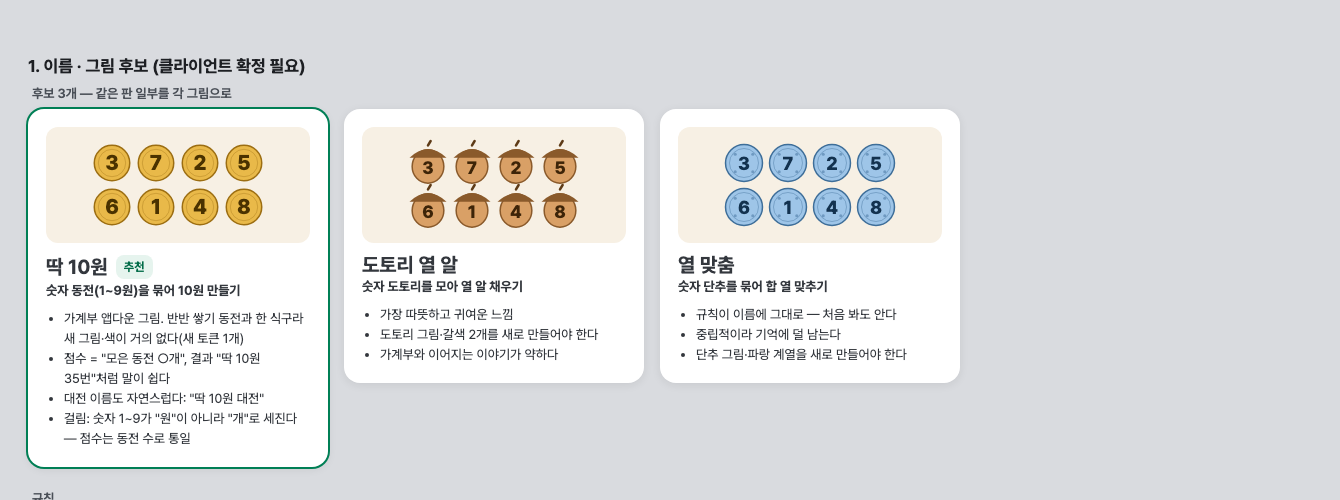
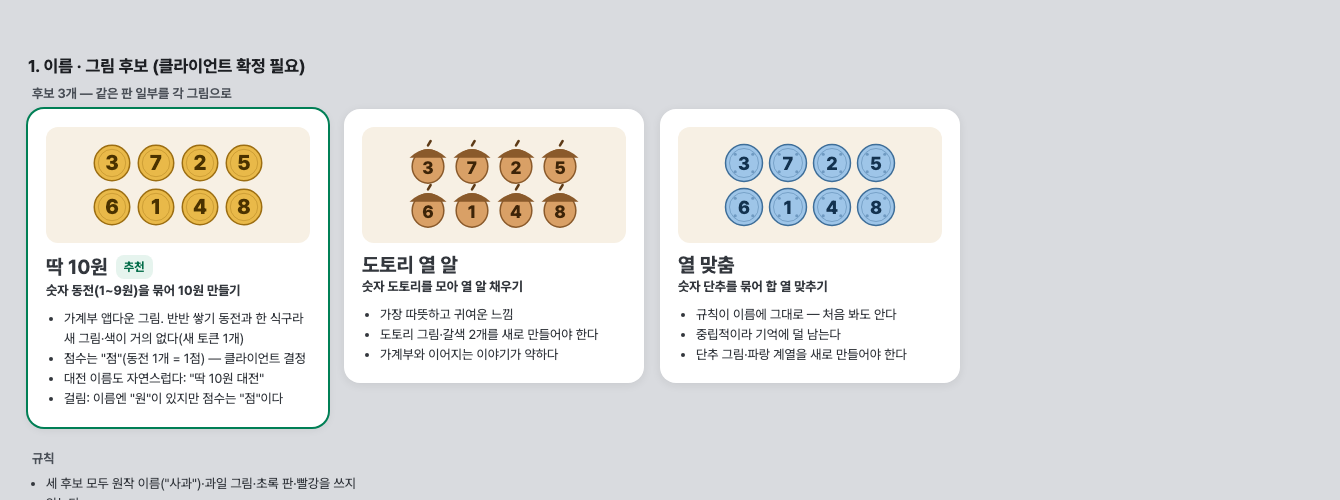
BANB-56 미니게임 점수 원 → 점: 반반 쌓기(5.32~5.39)·딱 10원 표기 정리

Changed region(s): [[0.0, 0.69, 0.2754, 1.0]]

diff --git a/docs/screens/play/ten.html b/docs/screens/play/ten.html
@@ -292,8 +292,8 @@ function land(o){
       ${o.finger ? `<div style="position:absolute;left:${l+w-16}px;top:${t+h-14}px;width:34px;height:34px;border-radius:99px;background:rgb(15 16 18 / .18);box-shadow:0 0 0 2px rgb(255 255 255 / .8);z-index:3"></div>` : ''}`; }
   const ratio = o.left / 120;
   const top = `<div class="gtop"><span class="ib" aria-label="나가기">${ic('chevron-left')}</span>
-    <div class="score"><small>모은 동전</small><b class="${o.flash?'flash':''}">${o.score}</b><span>개</span></div>
-    ${o.opp ? `<div class="opp ${o.opp.off?'off':''}">${av('j')}<span>준호</span><b>${o.opp.score}</b>${o.opp.off?ic('wifi-off'):''}</div>` : `<span class="best">최고 <b class="num">${o.best ?? 41}</b>개</span>`}
+    <div class="score"><small>점수</small><b class="${o.flash?'flash':''}">${o.score}</b><span>점</span></div>
+    ${o.opp ? `<div class="opp ${o.opp.off?'off':''}">${av('j')}<span>준호</span><b>${o.opp.score}</b>${o.opp.off?ic('wifi-off'):''}</div>` : `<span class="best">최고 <b class="num">${o.best ?? 41}</b>점</span>`}
     ${o.opp ? `<span class="ib ${o.cool?'cool':''}" aria-label="반응 보내기" style="margin-left:2px">${ic('smile-plus')}</span>` : ''}
     <div class="clock ${o.left<=10?'last':''}">${ic('timer')}${Math.floor(o.left/60)}:${String(o.left%60).padStart(2,'0')}</div></div>`;
   return `<div class="land">${top}
@@ -319,16 +319,16 @@ const fB = land({ g:Gb, score:35, left:83, sel:[3,2,5,3], finger:true });
 const fC = land({ g:Gc, score:40, flash:true, left:83, extra:(bx,by,s) => {
   const [cx, cy] = cellXY(bx,by,s,4,2.5);
   let fly = ''; [[0.25,0.55],[0.5,0.35],[0.75,0.15]].forEach(([t,op],i) => { const x = cx + (70 - cx)*t, y = cy + (24 - cy)*t - 20*Math.sin(Math.PI*t); fly += `<svg style="position:absolute;left:${x-12}px;top:${y-12}px;z-index:3" width="24" height="24"><circle cx="12" cy="12" r="10" fill="var(--color-piece-coin)" stroke="var(--color-piece-coin-edge)" stroke-width="1.5" opacity="${op+0.3}"/></svg>`; });
-  return `${fly}<div class="plusn" style="left:${cx-22}px;top:${cy-14}px">+5</div><div class="gpill" style="top:${by+12}px">${ic('sparkles')}동전 5개로 열 만들었어요!</div>`; } });
+  return `${fly}<div class="plusn" style="left:${cx-22}px;top:${cy-14}px">+5점</div><div class="gpill" style="top:${by+12}px">${ic('sparkles')}동전 5개로 열 만들었어요!</div>`; } });
 const fD = land({ g:Glate, score:52, left:10, best:41, extra:(bx,by) => `<div class="gpill" style="top:${by+12}px">${ic('timer')}남은 시간 10초예요</div>` });
 
 /* 1인 결과 */
 const soloRes = (newBest) => land({ g:Glate, score: newBest?52:38, best: newBest?41:52, left:0, dim:.5, extra:() => `<div class="cscrim"></div>
   <div class="lcard" style="width:440px"><div style="display:flex;gap:14px;align-items:center">
     <span class="circ56 ${newBest?'p':''}">${ic(newBest?'trophy':'coins')}</span>
-    <div style="flex:1"><h3>${newBest?'새 최고 기록이에요!':'끝났어요'}</h3><p>${newBest?'지난 최고 41개보다 11개 더 모았어요':'내 최고 기록은 <b class="num" style="color:var(--color-text)">52개</b>예요'}</p></div>
-    <div class="bigsc">${newBest?52:38}<small>개</small></div></div>
-    <div class="rec" style="margin-top:16px">${av('j','', 'width:24px;height:24px;font-size:11px')}<span>준호님 최고 기록 <b class="num">47개</b>${newBest?' — 내가 앞섰어요':''}</span></div>
+    <div style="flex:1"><h3>${newBest?'새 최고 기록이에요!':'끝났어요'}</h3><p>${newBest?'지난 최고 41점보다 11점 더 얻었어요':'내 최고 기록은 <b class="num" style="color:var(--color-text)">52점</b>예요'}</p></div>
+    <div class="bigsc">${newBest?52:38}<small>점</small></div></div>
+    <div class="rec" style="margin-top:16px">${av('j','', 'width:24px;height:24px;font-size:11px')}<span>준호님 최고 기록 <b class="num">47점</b>${newBest?' — 내가 앞섰어요':''}</span></div>
     <div class="btns" style="margin-top:16px"><div class="btn2">나가기</div><div class="btn1" style="flex:1.4">${ic('rotate-ccw')}한 판 더</div></div></div>` });
 
 /* 대전 */
@@ -338,7 +338,7 @@ const vOff = land({ g:Glate, score:47, left:10, opp:{score:44, off:true}, extra:
 const vWait = land({ g:Glate, score:47, left:0, opp:{score:44}, dim:.5, extra:() => `<div class="cscrim"></div><div class="lcard" style="width:360px;text-align:center"><div style="color:var(--color-primary);margin-bottom:8px">${ic('loader-circle','width:32px;height:32px')}</div><h3>점수를 맞춰 보는 중이에요</h3><p>준호님 기록이 오면 바로 알려 드릴게요</p></div>` });
 const vRes = (win) => land({ g:Glate, score: win?35:29, left:0, opp:{score:32}, dim:.5, extra:() => `<div class="cscrim"></div>
   <div class="lcard" style="width:580px;padding:18px 20px"><div style="display:flex;gap:20px">
-    <div style="flex:1"><div style="display:flex;gap:12px;align-items:center"><span class="circ56 ${win?'p':''}">${ic(win?'trophy':'smile')}</span><div><h3>${win?'이겼어요!':'아쉽게 졌어요'}</h3><p>${win?'준호님 32개, 나 35개':'준호님 32개, 나 29개'}</p></div></div>
+    <div style="flex:1"><div style="display:flex;gap:12px;align-items:center"><span class="circ56 ${win?'p':''}">${ic(win?'trophy':'smile')}</span><div><h3>${win?'이겼어요!':'아쉽게 졌어요'}</h3><p>${win?'준호님 32점, 나 35점':'준호님 32점, 나 29점'}</p></div></div>
       <div class="vsrow"><div class="${win?'win':''}"><small>${av('m')}나</small><b>${win?35:29}</b></div><div class="${win?'':'win'}"><small>${av('j')}준호</small><b>32</b></div></div></div>
     <div style="flex:1;display:flex;flex-direction:column">
       <div class="betbig" style="margin-top:0;text-align:center"><small>${ic('ticket')}진 사람이 설거지</small><b>${win?'준호님 당첨이에요!':'이번엔 내가 당첨이에요'}</b></div>
@@ -353,16 +353,16 @@ const menu = `<div class="phone"><div class="sh"><span class="ib">${ic('chevron-
     ${row('receipt','반반 쌓기 대전','줄을 지워 영수증을 보내요')}
     ${row('hand-coins','딱 10원 대전','같은 판으로 2분 동안 겨뤄요', true)}
     <p class="sect" style="padding-top:8px">혼자서</p>
-    ${row('piggy-bank','반반 쌓기','내 최고 <b style="display:inline;font-size:13px" class="num">28,000원</b>')}
-    ${row('coins','딱 10원','내 최고 <b style="display:inline;font-size:13px" class="num">41개</b>', true)}</div>
+    ${row('piggy-bank','반반 쌓기','내 최고 <b style="display:inline;font-size:13px" class="num">280점</b>')}
+    ${row('coins','딱 10원','내 최고 <b style="display:inline;font-size:13px" class="num">41점</b>', true)}</div>
   <div class="card" style="padding:4px 0"><div class="srow">${ic('vibrate')}<div style="flex:1"><div>진동</div><div style="font-size:13px;color:var(--color-text-sub)">줄을 지우거나 열을 만들 때 짧게 울려요</div></div><span class="sw"></span></div></div>
 </div></div></div>`;
 const mini = (() => { const g = [[3,0,5,2,6],[7,4,1,9,1],[2,0,8,3,5]], s = 40; let c=''; g.forEach((r,y)=>r.forEach((n,x)=>{ const ls = x>=1&&x<=2&&y>=0&&y<=1; c += coin(x*s+s/2, y*s+s/2, s, n, {lift:ls}); }));
   return `<div style="position:relative;width:200px;height:120px;margin:0 auto"><svg width="200" height="120" style="background:var(--color-stack-board);border-radius:12px">${c}</svg><div class="sel ten" style="left:${s-3}px;top:-3px;width:${2*s+6}px;height:${2*s+6}px"></div><div class="sum ten" style="left:${3*s-10}px;top:-16px;height:24px;font-size:13px">10${ic('check','width:14px;height:14px;stroke-width:3')}</div></div>`; })();
 const start = `<div class="phone"><div class="sh"><span class="ib">${ic('chevron-left')}</span><b>딱 10원</b></div><div class="scroll" style="bottom:80px"><div class="stack" style="padding-top:12px">
   <div class="card" style="text-align:center;padding-top:24px">${mini}<div class="t18" style="margin-top:16px">숫자 동전을 네모로 묶어<br>딱 10원을 만들어요</div></div>
-  <div class="card"><div class="k">내 최고 기록</div><div class="big num">41<span style="font-size:18px;font-weight:600;color:var(--color-text-sub);margin-left:2px">개</span></div>
-    <div class="rec" style="justify-content:flex-start;padding:0 12px;margin-top:12px">${av('j','', 'width:24px;height:24px;font-size:11px')}<span style="font-weight:500">준호님 최고 기록 <b class="num">47개</b>예요</span></div></div>
+  <div class="card"><div class="k">내 최고 기록</div><div class="big num">41<span style="font-size:18px;font-weight:600;color:var(--color-text-sub);margin-left:2px">점</span></div>
+    <div class="rec" style="justify-content:flex-start;padding:0 12px;margin-top:12px">${av('j','', 'width:24px;height:24px;font-size:11px')}<span style="font-weight:500">준호님 최고 기록 <b class="num">47점</b>예요</span></div></div>
   <div class="card"><div class="k">이렇게 해요</div><div class="howto">
     <div><span class="c">${ic('square-dashed-mouse-pointer')}</span>손가락으로 끌어 네모를 그려요</div>
     <div><span class="c">${ic('equal')}</span>네모 안 숫자 합이 10이면 동전이 모여요</div>
@@ -376,7 +376,7 @@ const rotBefore = `<div class="phone"><div class="sh"><span class="ib">${ic('che
 const rotDuring = `<div class="phone"><div class="sh"><span class="ib">${ic('chevron-left')}</span><b>딱 10원</b></div><div class="rot">
   <div class="rotart"><span class="ph1"></span><span class="ph2"></span>${ic('rotate-cw')}</div>
   <h3>가로로 돌려 주세요</h3><p>게임은 멈추지 않아요.<br>시간이 계속 흐르고 있어요</p>
-  <div class="paused"><div><small>남은 시간</small><b class="t">1:12</b></div><div><small>모은 동전</small><b>35개</b></div></div></div></div>`;
+  <div class="paused"><div><small>남은 시간</small><b class="t">1:12</b></div><div><small>점수</small><b>35점</b></div></div></div></div>`;
 
 /* ── 이름 후보 ── */
 const acorn = (cx, cy, s, n) => `<g><ellipse cx="${cx}" cy="${cy+s*0.08}" rx="${s*0.36}" ry="${s*0.38}" fill="#D9A066" stroke="#8A5A2B" stroke-width="1.5"/><path d="M${cx-s*0.42} ${cy-s*0.12} Q${cx} ${cy-s*0.5} ${cx+s*0.42} ${cy-s*0.12} Z" fill="#8A5A2B"/><line x1="${cx}" y1="${cy-s*0.4}" x2="${cx+s*0.06}" y2="${cy-s*0.5}" stroke="#5E3B17" stroke-width="2.5" stroke-linecap="round"/><text x="${cx}" y="${cy+s*0.26}" text-anchor="middle" font-size="${s*0.4}" font-weight="800" fill="#3D2408" font-family="Pretendard Variable">${n}</text></g>`;
@@ -384,7 +384,7 @@ const button = (cx, cy, s, n) => `<g><circle cx="${cx}" cy="${cy}" r="${s*0.42}"
 const art = f => { const s = 44, ns = [[3,7,2,5],[6,1,4,8]]; let c=''; ns.forEach((r,y)=>r.forEach((n,x)=>{ c += f(x*s+s/2+4, y*s+s/2+4, s, n); })); return `<svg width="${4*s+8}" height="${2*s+8}">${c}</svg>`; };
 const names = `<div class="row" style="gap:16px">
   <div class="ncard pick"><div class="art">${art((x,y,s,n)=>coin(x,y,s,n))}</div><h3>딱 10원 <em>추천</em></h3><b>숫자 동전(1~9원)을 묶어 10원 만들기</b>
-    <ul><li>가계부 앱다운 그림. 반반 쌓기 동전과 한 식구라 새 그림·색이 거의 없다(새 토큰 1개)</li><li>점수 = "모은 동전 ○개", 결과 "딱 10원 35번"처럼 말이 쉽다</li><li>대전 이름도 자연스럽다: "딱 10원 대전"</li><li>걸림: 숫자 1~9가 "원"이 아니라 "개"로 세진다 — 점수는 동전 수로 통일</li></ul></div>
+    <ul><li>가계부 앱다운 그림. 반반 쌓기 동전과 한 식구라 새 그림·색이 거의 없다(새 토큰 1개)</li><li>점수는 "점"(동전 1개 = 1점) — 클라이언트 결정</li><li>대전 이름도 자연스럽다: "딱 10원 대전"</li><li>걸림: 이름엔 "원"이 있지만 점수는 "점"이다</li></ul></div>
   <div class="ncard"><div class="art">${art(acorn)}</div><h3>도토리 열 알</h3><b>숫자 도토리를 모아 열 알 채우기</b>
     <ul><li>가장 따뜻하고 귀여운 느낌</li><li>도토리 그림·갈색 2개를 새로 만들어야 한다</li><li>가계부와 이어지는 이야기가 약하다</li></ul></div>
   <div class="ncard"><div class="art">${art(button)}</div><h3>열 맞춤</h3><b>숫자 단추를 묶어 합 열 맞추기</b>
@@ -392,11 +392,11 @@ const names = `<div class="row" style="gap:16px">
 
 const SCREENS = [
   ['names','1. 이름 · 그림 후보 (클라이언트 확정 필요)', [[names,'후보 3개 — 같은 판 일부를 각 그림으로']], ['세 후보 모두 원작 이름("사과")·과일 그림·초록 판·빨강을 쓰지 않는다', '<b>추천: 딱 10원</b> — 가계부 앱 안의 게임이라 "돈"으로 이야기가 이어지고, 반반 쌓기 동전 그림·색을 그대로 써서 새 토큰이 1개(숫자 글자색)뿐이다', '나머지 시안은 모두 "딱 10원"으로 그렸다. 다른 후보로 정해지면 그림(칸 1개)과 글자만 바꾼다 — 배치·크기·동작은 같다']],
-  ['menu','2. 게임 고르기 · 시작 (세로)', [[menu,'미니게임 화면 — 행 2개 추가'],[start,'시작 화면'],[rotBefore,'시작하기 → 세로면 "가로로 돌려 주세요"']], ['미니게임 화면: "혼자서"에 <b>딱 10원</b>(`Coins`, 보조 "내 최고 41개", 없으면 "합이 10이 되게 동전을 묶어요"), "둘이 같이"에 <b>딱 10원 대전</b>(`HandCoins`, 보조 = 전적, 없으면 "같은 판으로 2분 동안 겨뤄요")', '대전 행 → 상대 고르기·내기·대기실은 반반 쌓기 대전(5.36) 그대로', '시작 화면은 세로: 그림 카드(합 10 네모 예시) → 기록 카드 → 이렇게 해요 3줄 → 시작하기', '시작하기를 눌렀는데 세로면 회전 안내 화면. 가로가 되면 3초 세기 후 시작. 이미 가로면 바로 3초 세기']],
+  ['menu','2. 게임 고르기 · 시작 (세로)', [[menu,'미니게임 화면 — 행 2개 추가'],[start,'시작 화면'],[rotBefore,'시작하기 → 세로면 "가로로 돌려 주세요"']], ['미니게임 화면: "혼자서"에 <b>딱 10원</b>(`Coins`, 보조 "내 최고 41점", 없으면 "합이 10이 되게 동전을 묶어요"), "둘이 같이"에 <b>딱 10원 대전</b>(`HandCoins`, 보조 = 전적, 없으면 "같은 판으로 2분 동안 겨뤄요")', '대전 행 → 상대 고르기·내기·대기실은 반반 쌓기 대전(5.36) 그대로', '시작 화면은 세로: 그림 카드(합 10 네모 예시) → 기록 카드 → 이렇게 해요 3줄 → 시작하기', '시작하기를 눌렀는데 세로면 회전 안내 화면. 가로가 되면 3초 세기 후 시작. 이미 가로면 바로 3초 세기']],
   ['rotate','3. 가로로 돌려 주세요 (세로일 때)', [[rotBefore,'시작 전'],[rotDuring,'게임 중 세로로 돌림']], ['방향 고정이 안 되는 PWA·iOS Safari 대비. 세로가 되면 판 대신 이 화면', '게임 중: <b>멈추지 않는다</b>(명세 — 시간은 흐름). 남은 시간·모은 동전을 보여 줘 급한 걸 알게. 남은 시간 숫자는 매초 바뀜', '버튼 없이 돌리기만 하면 바로 판으로 돌아간다. 시작 전 화면에만 "나가기"', '그림: 연한 세로 폰 → 진한 가로 폰 + `RotateCw`(아이콘 세트 Lucide 그대로, 새 그림 아님)']],
-  ['play','4. 플레이 (가로 640×360)', [[fA,'끄는 중 — 합 7 (아무 일 없음)'],[fB,'합 10 — 네모가 진해지고 "10 ✓"'],[fC,'손을 뗌 → 터짐 + "+5" + 점수 깜빡'],[fD,'남은 10초']], ['정보 배치는 익숙하게: <b>점수 왼쪽 위, 남은 시간 오른쪽 위 + 판 오른쪽 세로 막대</b>(위에서 아래로 줄어듦). 판은 가운데 크게', '칸 s = floor(min((폭 − 72) / 15, (높이 − 64) / 8)), 30~48. 640×360 → 37(판 555×296), 667×375 → 38, 932×430 → 45. 좌우 노치는 safe-area만큼 더 띄운다', '네모: 손가락이 처음 닿은 칸 ~ 지금 칸까지(칸 단위로 딱 맞춤). 2px `primary` + 8% 바탕. 네모 오른쪽 위 알약에 <b>합</b>을 늘 보여 준다', '합 = 10: 테두리 3px + 16% 바탕, 알약이 `primary` "10 ✓", 안의 동전 테두리 `primary` + 살짝 커짐(1.08). 진동 켬이면 10이 되는 순간 짧게(15ms)', '손을 떼면 합 10: 동전이 0.15초 커졌다 점수 쪽으로 날아감(0.4초) → 자리에 "+5" 0.6초 → 점수 숫자 바탕 0.3초 깜빡. 빈칸은 다시 채우지 않음(작은 점만)', '첫 번째 터짐과 4개 이상 한 번에는 알약 "열 만들었어요!" / "동전 5개로 열 만들었어요!" 1.2초. 나머지는 "+N"만(시끄럽지 않게)', '합이 10이 아니면: 네모만 사라짐(벌점·흔들림 없음)', '남은 10초: 시간 숫자 `primary-strong` + 알약 "남은 시간 10초예요" 1.2초 1번. 소리 없음(효과음 자리도 안 만듦)', '‹ = 나가기 확인 창 "그만할까요? 이번 판 기록은 남지 않아요"(1인) — 창이 떠도 시간은 흐름']],
-  ['solo','5. 1인 결과', [[soloRes(true),'새 최고 기록'],[soloRes(false),'보통']], ['판을 흐리게 두고 가운데 카드(가로라 바텀시트 대신). 왼쪽 아이콘·제목, 오른쪽 큰 점수 40/800', '최고 기록 = 반반 쌓기 기록 저장 재사용(가계부 × 멤버 최고 1개). 멤버 비교 줄은 반반 쌓기 5.34 규칙', '한 판 더 = 새 시드로 바로 3초 세기. 나가기 → 미니게임 화면(세로)', '첫 판(기록 없음) → 제목 "첫 기록이에요!", 0개 → "다음엔 하나 만들어 봐요"']],
-  ['versus','6. 대전', [[vCount,'3초 세기 — 같은 판'],[vPlay,'플레이 — 상대 점수 작게 + 받은 반응'],[vOff,'상대 끊김 · 남은 10초'],[vWait,'끝 — 점수 맞춰 보는 중'],[vRes(true),'결과 — 이김 + 내기'],[vRes(false),'결과 — 짐']], ['둘 다 들어오면 같은 시드 판을 흐리게 보여 주고 3·2·1(마감 시각은 서버 기준). 알약 "같은 판으로 동시에 시작해요"', '상대 점수: 내 점수 옆 회색 알약 [아바타 28] "준호 31" — 내 점수(24/800)보다 작게(17/800). 0.5초마다 갱신. 판은 보여 주지 않는다(같은 판이라 정답 힌트가 됨)', '이모지 반응: 반반 쌓기 대전(5.37) 그대로 — `SmilePlus`, 받은 이모지는 상대 알약 아래 말풍선 2초, 보낸 뒤 3초 쉼', '상대 끊김: 판은 각자 독립이라 <b>멈추지 않는다</b>. 상대 알약 흐림 + `WifiOff` + 마지막 점수, 토스트 1번 "준호님 연결이 끊겼어요. 판은 그대로 이어져요". 돌아오면 토스트 "준호님이 돌아왔어요"', '내가 끊김: 판은 계속, 위에 작은 알약 "연결이 끊겼어요. 다시 연결되면 점수를 보낼게요"(그림 없음)', '시간이 끝나면 드래그 기록을 보내고 "점수를 맞춰 보는 중이에요"(최대 5초 — 명세). 화면 점수는 참고, 결과는 서버 계산값', '결과: 왼쪽 제목 + 한 줄 "준호님 32개, 나 35개" + 점수 2칸(이긴 쪽 테두리), 오른쪽 내기 상자·전적·버튼. 무승부 = `Handshake` "비겼어요!" / 내기 상자 "이번엔 둘 다 무사해요"', '서버 점수가 화면 점수와 다르면 결과는 서버 값만 보여 준다(설명 문구 없음 — 정상 조작이면 같음)']],
+  ['play','4. 플레이 (가로 640×360)', [[fA,'끄는 중 — 합 7 (아무 일 없음)'],[fB,'합 10 — 네모가 진해지고 "10 ✓"'],[fC,'손을 뗌 → 터짐 + "+5" + 점수 깜빡'],[fD,'남은 10초']], ['정보 배치는 익숙하게: <b>점수 왼쪽 위, 남은 시간 오른쪽 위 + 판 오른쪽 세로 막대</b>(위에서 아래로 줄어듦). 판은 가운데 크게', '칸 s = floor(min((폭 − 72) / 15, (높이 − 64) / 8)), 30~48. 640×360 → 37(판 555×296), 667×375 → 38, 932×430 → 45. 좌우 노치는 safe-area만큼 더 띄운다', '네모: 손가락이 처음 닿은 칸 ~ 지금 칸까지(칸 단위로 딱 맞춤). 2px `primary` + 8% 바탕. 네모 오른쪽 위 알약에 <b>합</b>을 늘 보여 준다', '합 = 10: 테두리 3px + 16% 바탕, 알약이 `primary` "10 ✓", 안의 동전 테두리 `primary` + 살짝 커짐(1.08). 진동 켬이면 10이 되는 순간 짧게(15ms)', '손을 떼면 합 10: 동전이 0.15초 커졌다 점수 쪽으로 날아감(0.4초) → 자리에 "+5점" 0.6초 → 점수 숫자 바탕 0.3초 깜빡. 빈칸은 다시 채우지 않음(작은 점만)', '첫 번째 터짐과 4개 이상 한 번에는 알약 "열 만들었어요!" / "동전 5개로 열 만들었어요!" 1.2초. 나머지는 "+N점"만(시끄럽지 않게)', '합이 10이 아니면: 네모만 사라짐(벌점·흔들림 없음)', '점수 단위는 "점"(클라이언트 결정 2026-11-10), 동전 1개 = 1점. 남은 10초: 시간 숫자 `primary-strong` + 알약 "남은 시간 10초예요" 1.2초 1번. 소리 없음(효과음 자리도 안 만듦)', '‹ = 나가기 확인 창 "그만할까요? 이번 판 기록은 남지 않아요"(1인) — 창이 떠도 시간은 흐름']],
+  ['solo','5. 1인 결과', [[soloRes(true),'새 최고 기록'],[soloRes(false),'보통']], ['판을 흐리게 두고 가운데 카드(가로라 바텀시트 대신). 왼쪽 아이콘·제목, 오른쪽 큰 점수 40/800 + "점"', '최고 기록 = 반반 쌓기 기록 저장 재사용(가계부 × 멤버 최고 1개). 멤버 비교 줄은 반반 쌓기 5.34 규칙', '한 판 더 = 새 시드로 바로 3초 세기. 나가기 → 미니게임 화면(세로)', '첫 판(기록 없음) → 제목 "첫 기록이에요!", 0점 → "다음엔 하나 만들어 봐요"']],
+  ['versus','6. 대전', [[vCount,'3초 세기 — 같은 판'],[vPlay,'플레이 — 상대 점수 작게 + 받은 반응'],[vOff,'상대 끊김 · 남은 10초'],[vWait,'끝 — 점수 맞춰 보는 중'],[vRes(true),'결과 — 이김 + 내기'],[vRes(false),'결과 — 짐']], ['둘 다 들어오면 같은 시드 판을 흐리게 보여 주고 3·2·1(마감 시각은 서버 기준). 알약 "같은 판으로 동시에 시작해요"', '상대 점수: 내 점수 옆 회색 알약 [아바타 28] "준호 31" — 내 점수(24/800)보다 작게(17/800). 0.5초마다 갱신. 판은 보여 주지 않는다(같은 판이라 정답 힌트가 됨)', '이모지 반응: 반반 쌓기 대전(5.37) 그대로 — `SmilePlus`, 받은 이모지는 상대 알약 아래 말풍선 2초, 보낸 뒤 3초 쉼', '상대 끊김: 판은 각자 독립이라 <b>멈추지 않는다</b>. 상대 알약 흐림 + `WifiOff` + 마지막 점수, 토스트 1번 "준호님 연결이 끊겼어요. 판은 그대로 이어져요". 돌아오면 토스트 "준호님이 돌아왔어요"', '내가 끊김: 판은 계속, 위에 작은 알약 "연결이 끊겼어요. 다시 연결되면 점수를 보낼게요"(그림 없음)', '시간이 끝나면 드래그 기록을 보내고 "점수를 맞춰 보는 중이에요"(최대 5초 — 명세). 화면 점수는 참고, 결과는 서버 계산값', '결과: 왼쪽 제목 + 한 줄 "준호님 32점, 나 35점" + 점수 2칸(이긴 쪽 테두리), 오른쪽 내기 상자·전적·버튼. 무승부 = `Handshake` "비겼어요!" / 내기 상자 "이번엔 둘 다 무사해요"', '서버 점수가 화면 점수와 다르면 결과는 서버 값만 보여 준다(설명 문구 없음 — 정상 조작이면 같음)']],
 ];
 document.getElementById('rows').innerHTML = SCREENS.map(([k, t, phones, notes]) => `<section data-s="${k}"><h2>${t}</h2><div class="row">
 ${phones.map(([p, cap]) => `<div><p class="cap">${cap}</p><div data-theme="clean">${p}</div></div>`).join('')}

diff --git a/docs/screens/play/README.md b/docs/screens/play/README.md
@@ -129,3 +129,7 @@
 2. **원작과 닮은 정도**: 둥근 칸 안 숫자, 오른쪽 세로 타이머 막대는 장르상 원작과 비슷하다(명세의 "정보 배치는 익숙하게"에 따름). 이름·그림·색(초록 판·빨강 과일)·효과음은 다르다. 디자인 판단으로는 "너무 비슷함"에 해당하지 않는다.
 3. **상대 판 미리보기 없음**: 반반 쌓기 대전과 달리 상대 판을 보여 주지 않는다. 같은 시드라 상대가 어디를 지웠는지가 답 힌트가 되기 때문이다.
 4. iOS Safari 탭(홈 화면 추가 전)은 가로에서 주소창이 높이를 먹는다. 칸은 최소 30이라 화면 높이가 304px보다 낮으면 판 아래가 잘릴 수 있다. 실기기 확인이 필요하다(잘리면 위 줄을 판 왼쪽 세로로 옮기는 안을 다음에 낸다).
+
+### 점수 표기 변경 (클라이언트 결정 2026-11-10)
+
+미니게임 점수는 원이 아니라 **"점"**이다. `design.md` 5.32~5.44를 고쳤다(반반 쌓기 1줄 10점 · 2줄 30점 · 3줄 60점, "저금" → "지웠어요"). `ten.html`과 `img/ten-*.png`도 새 표기로 바꿨다. **`stack.html`·`versus.html`과 그 그림은 옛 표기(원·저금)로 남아 있다. 서로 다르면 design.md를 따른다.**
